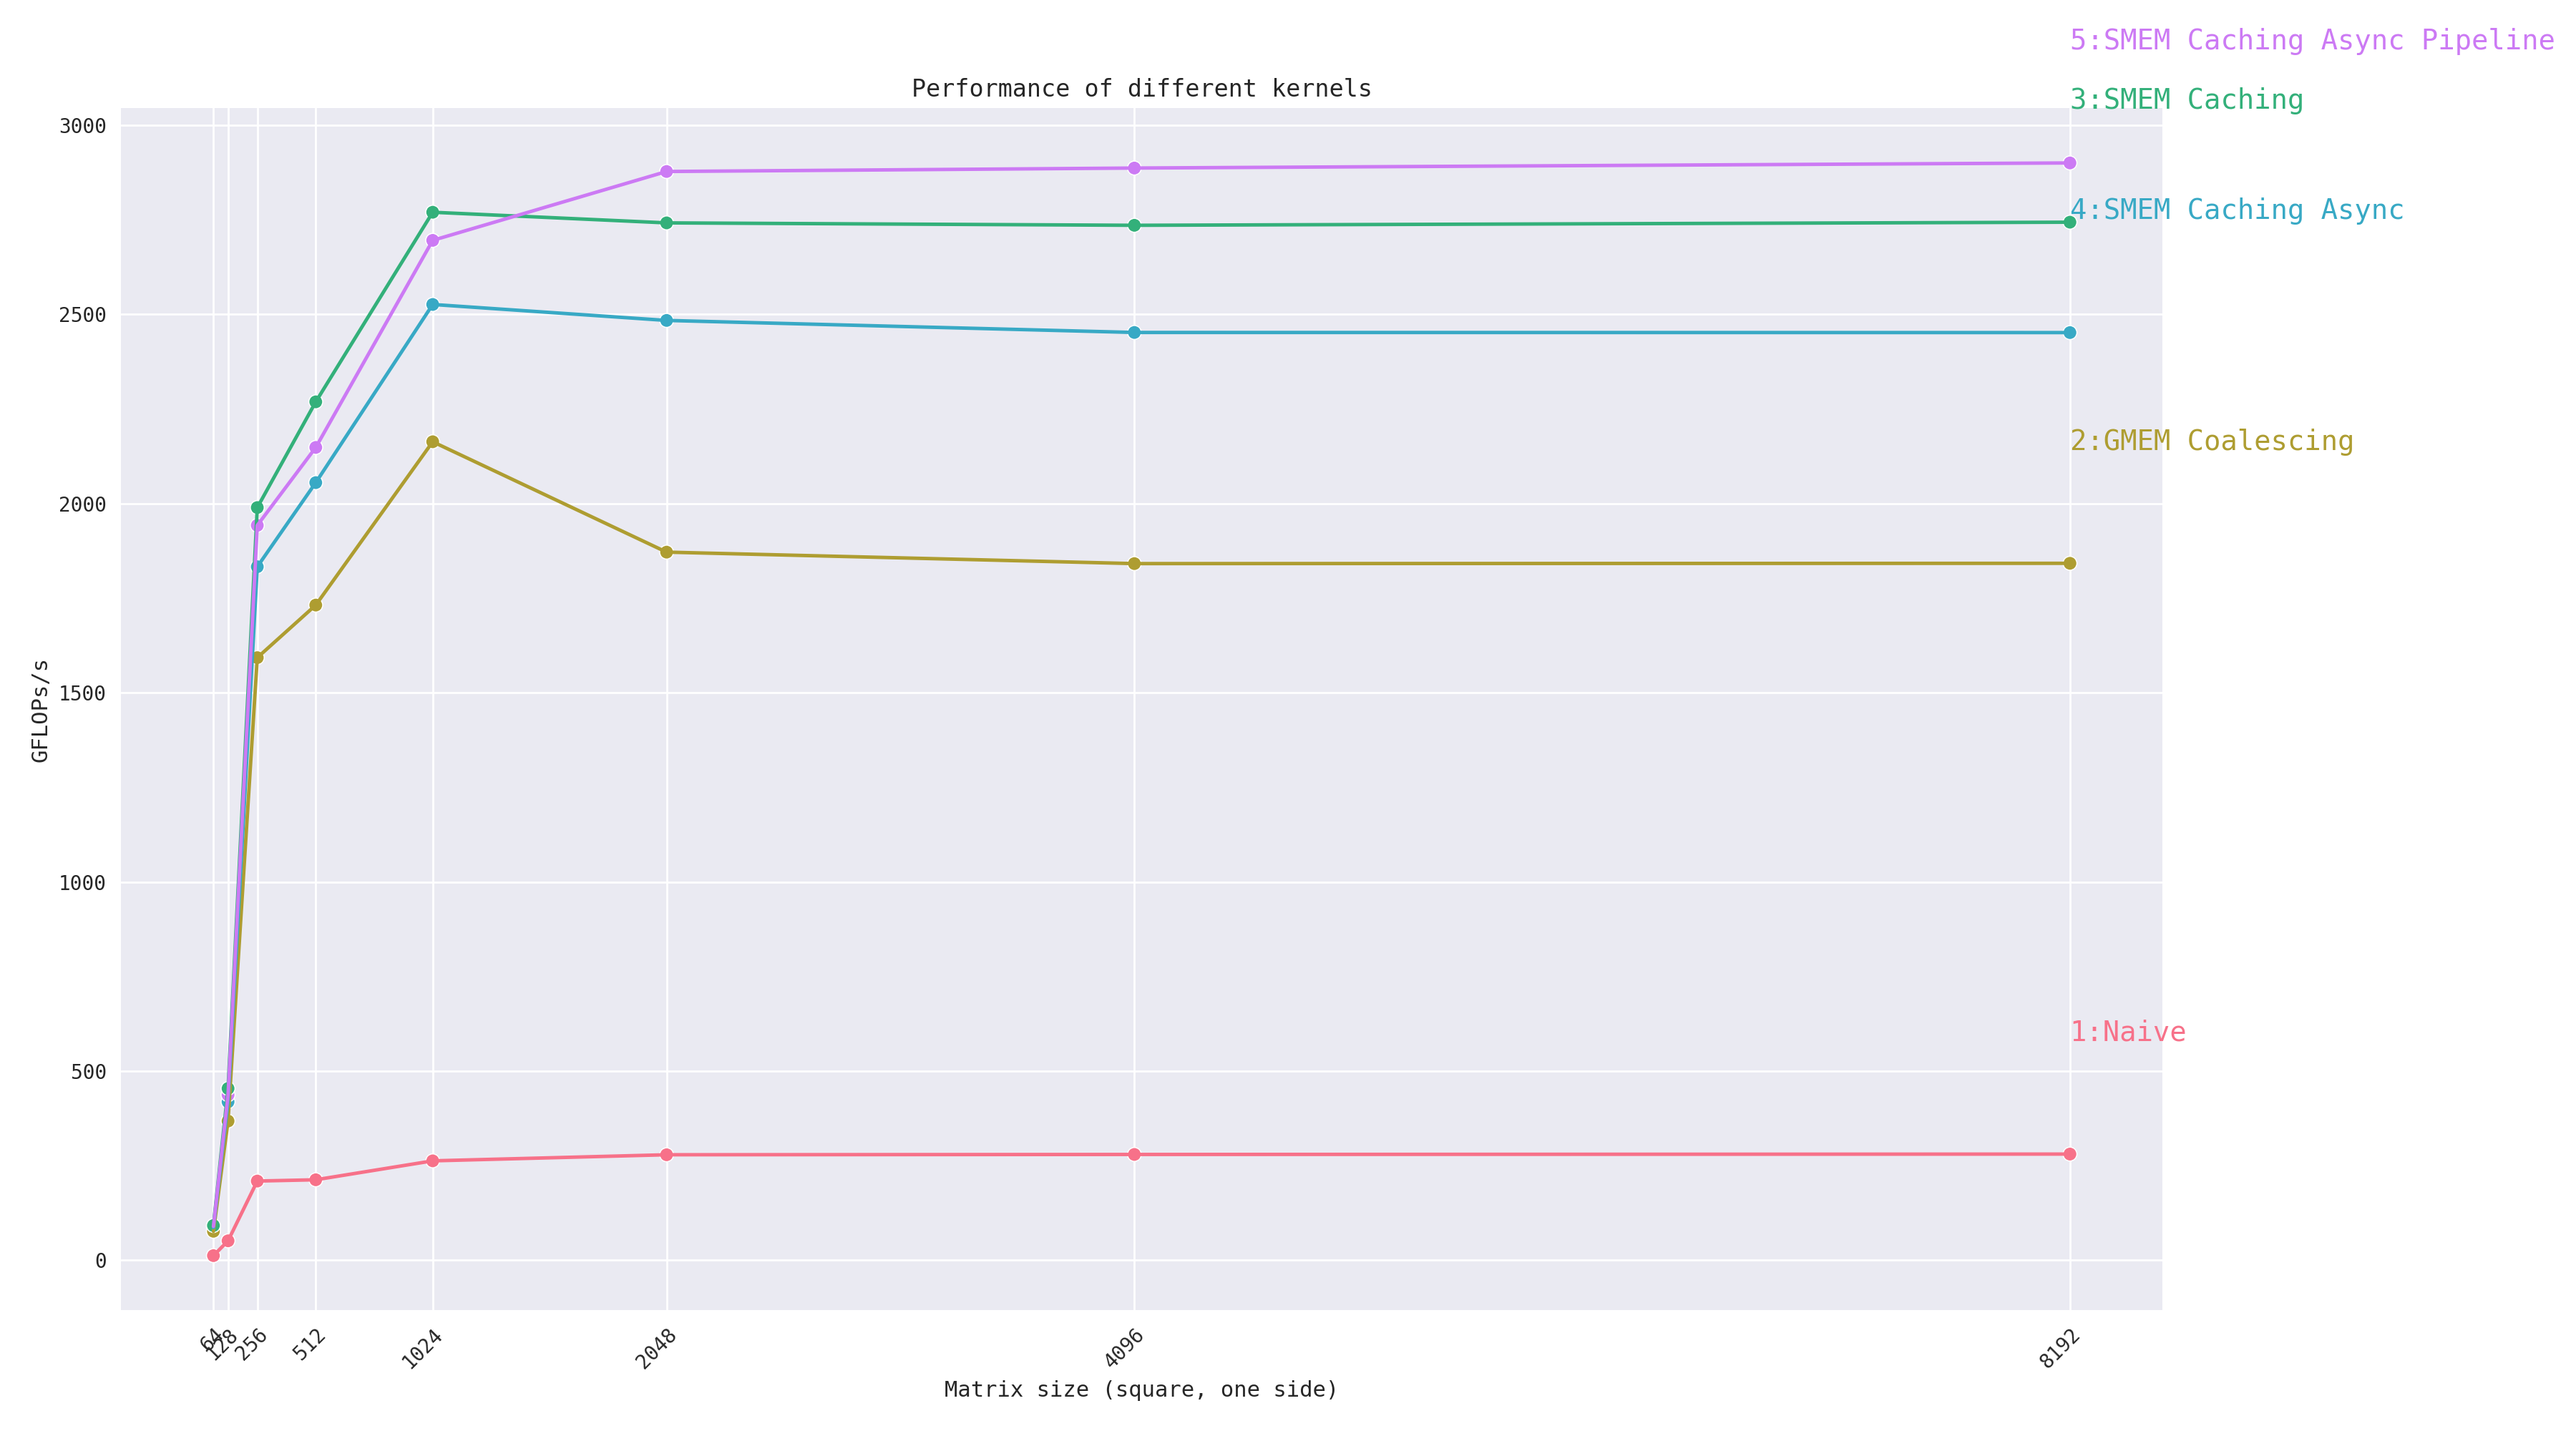
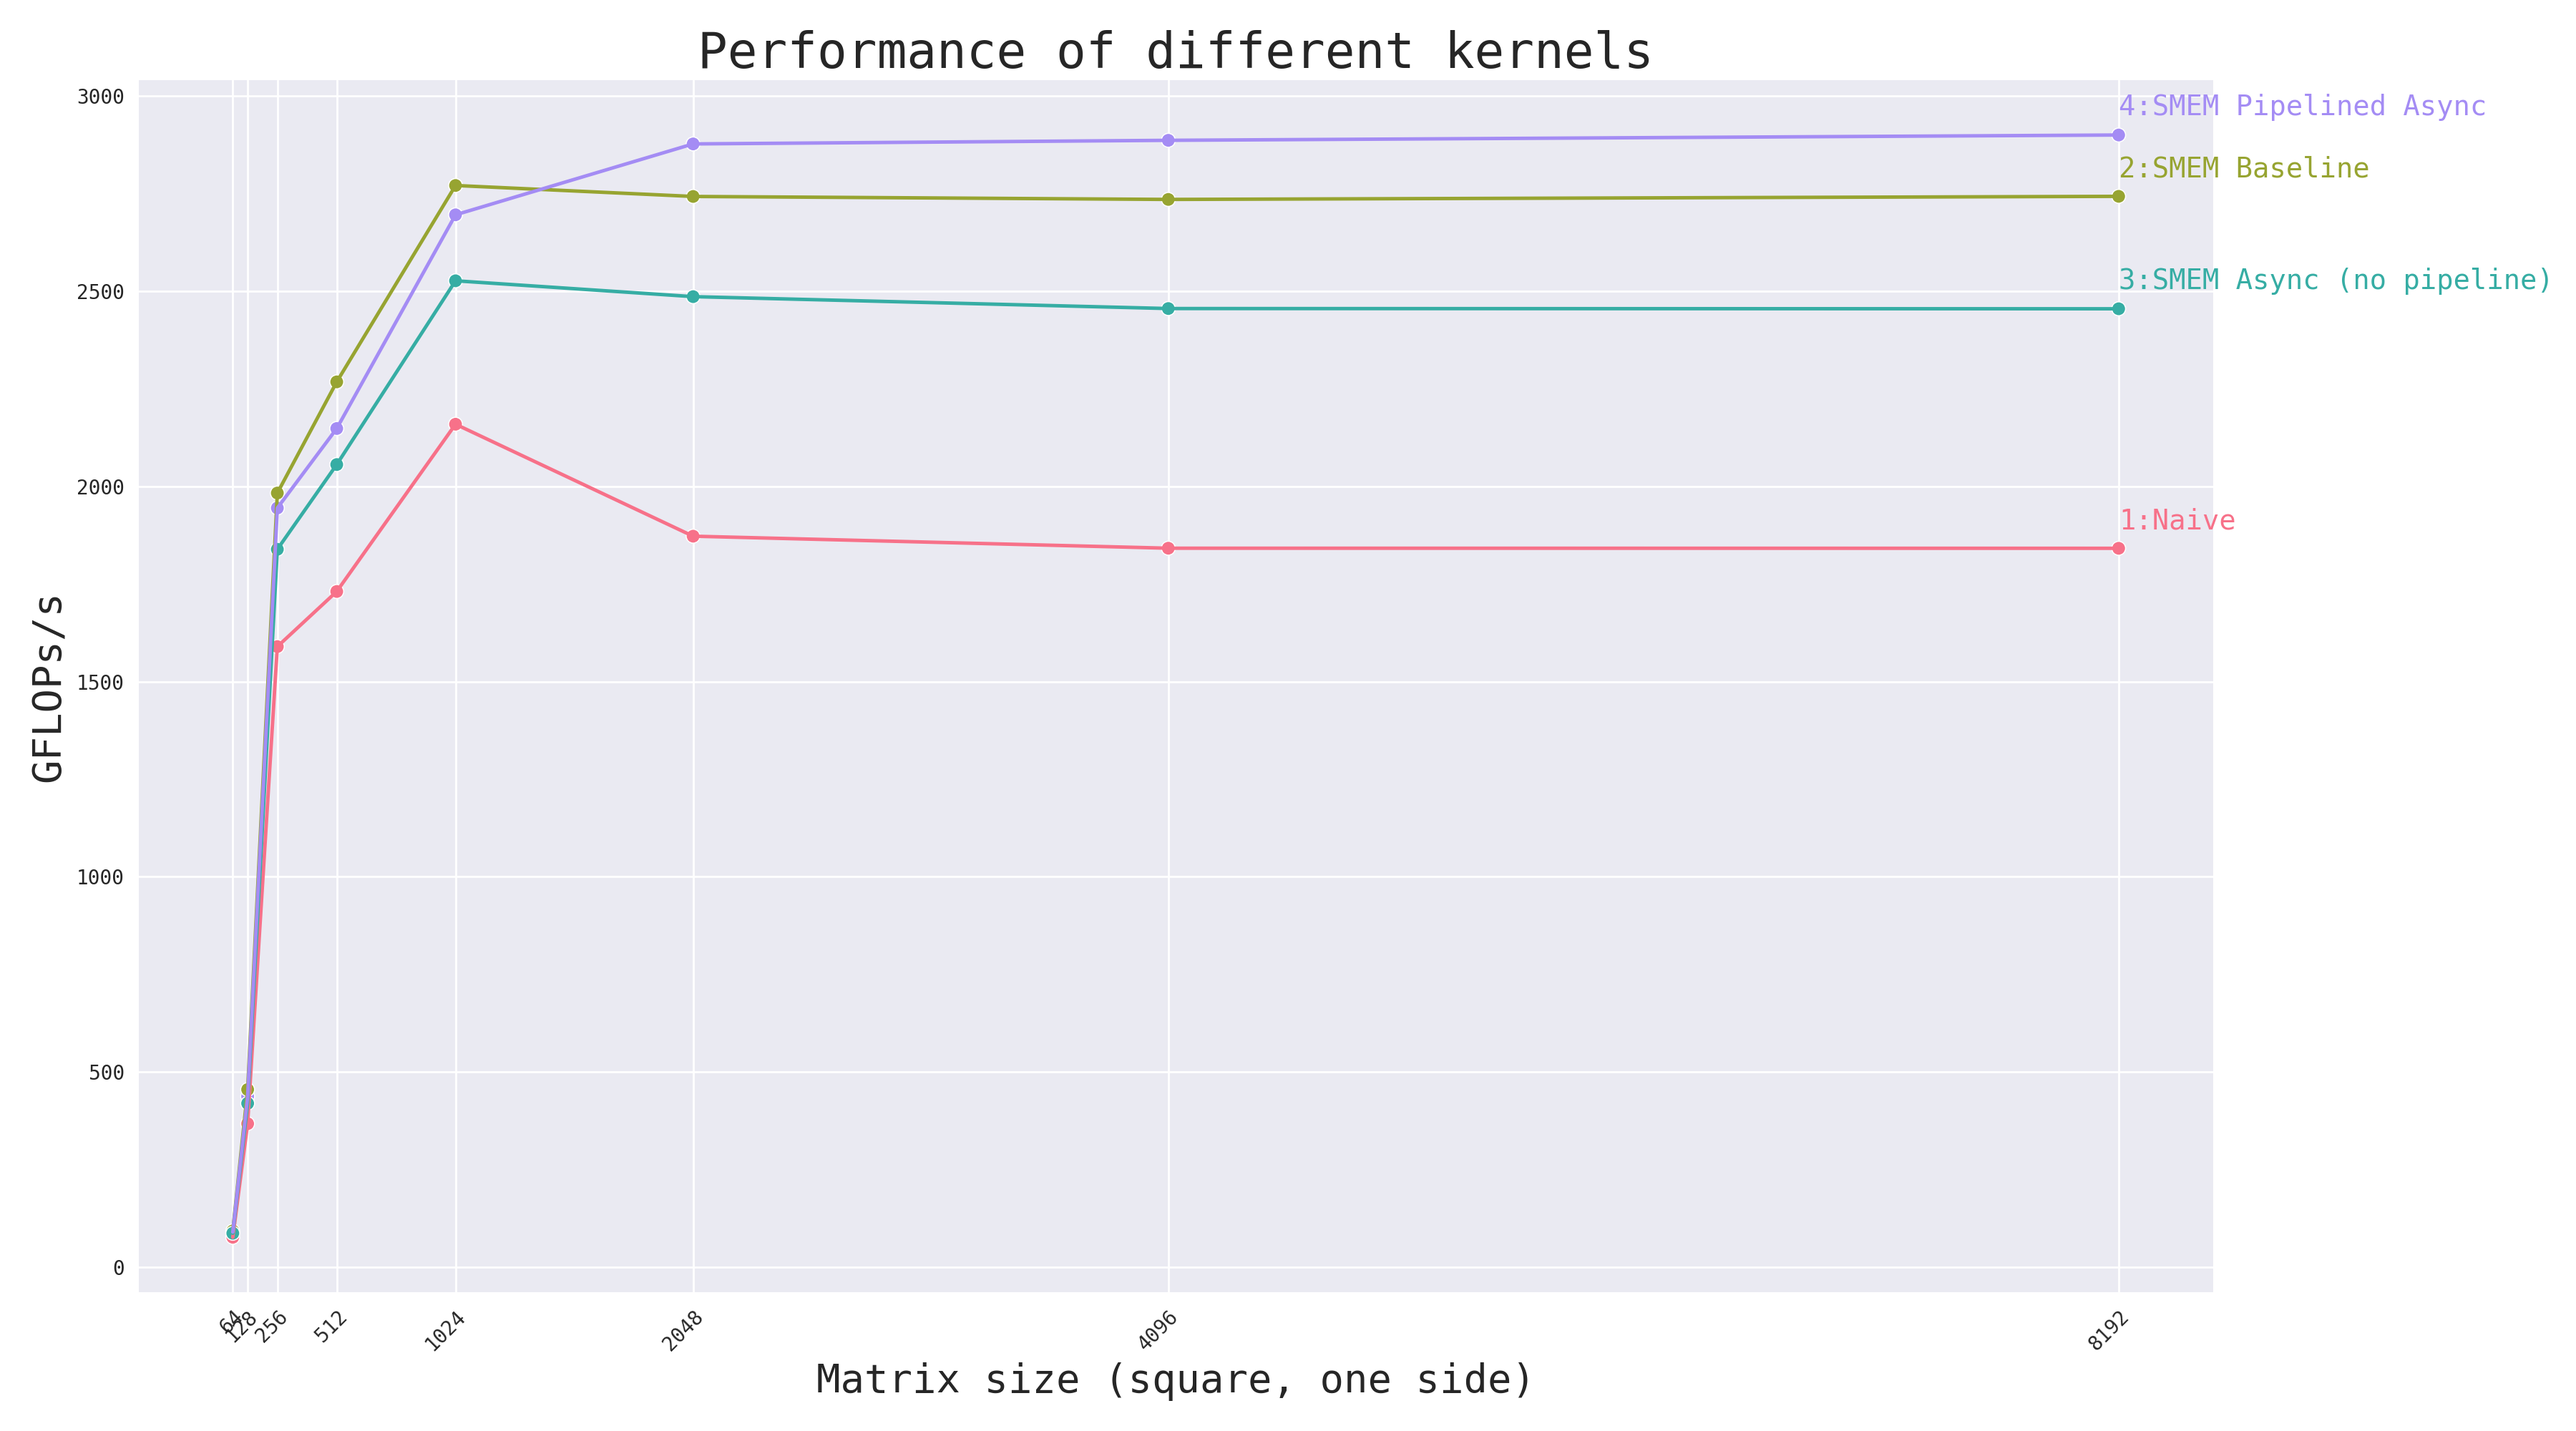
remove actual naive factor

diff --git a/plot_benchmark_results.py b/plot_benchmark_results.py
@@ -21,17 +21,9 @@ plt.rcParams["savefig.facecolor"] = "white"
 
 KERNEL_NAMES = {
     1: "Naive",
-    2: "GMEM Coalescing",
-    3: "SMEM Caching",
-    4: "SMEM Caching Async",
-    5: "SMEM Caching Async Pipeline"
-    # 4: "1D Blocktiling",
-    # 5: "2D Blocktiling",
-    # 6: "Vectorized Mem Access",
-    # 7: "Avoid Bank Conflicts (Linearize)",
-    # 8: "Avoid Bank Conflicts (Offset)",
-    # 9: "Autotuning",
-    # 10: "Warptiling",
+    2: "SMEM Baseline",
+    3: "SMEM Async (no pipeline)",
+    4: "SMEM Pipelined Async"
 }
 
 
@@ -78,7 +70,7 @@ def plot(df: pd.DataFrame):
         # right align the text
         plt.text(
             df[df["kernel"] == i+1]["size"].iloc[-1],
-            df[df["kernel"] == i+1]["gflops"].iloc[-1] + 300,
+            df[df["kernel"] == i+1]["gflops"].iloc[-1] + 50,
             f"{i+1}:{KERNEL_NAMES[i+1]}",
             color=colors[i],
             horizontalalignment="left",
@@ -88,9 +80,9 @@ def plot(df: pd.DataFrame):
     # turn of the legend
     plt.gca().get_legend().remove()
 
-    plt.title("Performance of different kernels")
-    plt.xlabel("Matrix size (square, one side)")
-    plt.ylabel("GFLOPs/s")
+    plt.title("Performance of different kernels", fontsize=25)
+    plt.xlabel("Matrix size (square, one side)", fontsize=20)
+    plt.ylabel("GFLOPs/s", fontsize=20)
     plt.tight_layout()
 
     plt.savefig(save_dir / "benchmark_results.png")
@@ -118,19 +110,3 @@ if __name__ == "__main__":
     # df["relperf"] = df["gflops"] / df[df["kernel"] == "0: cuBLAS"]["gflops"].iloc[0]
     # df["relperf"] = df["relperf"].apply(lambda x: f"{x*100:.1f}%")
     # df.columns = ["Kernel", "GFLOPs/s", "Performance relative to cuBLAS"]
-
-    # update the README.md with the new results
-    with open("README.md", "r") as f:
-        readme = f.read()
-    # delete old results
-    readme = re.sub(
-        r"<!-- benchmark_results -->.*<!-- benchmark_results -->",
-        "<!-- benchmark_results -->\n{}\n<!-- benchmark_results -->".format(
-            df.to_markdown(index=False)
-        ),
-        readme,
-        flags=re.DOTALL,
-    )
-    # input new results
-    with open("README.md", "w") as f:
-        f.write(readme)
